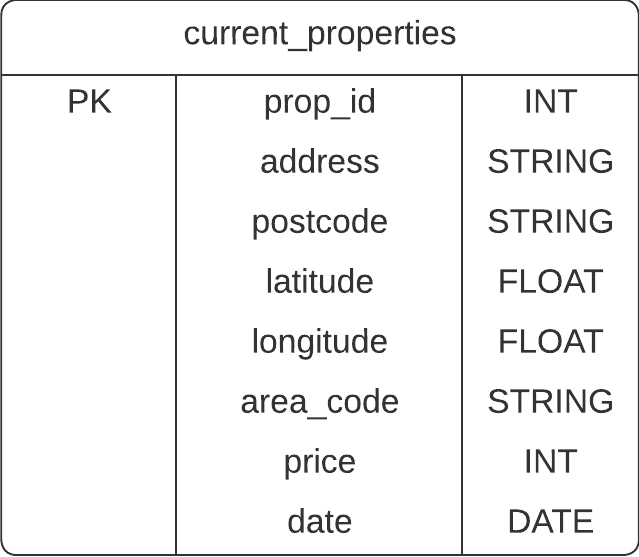
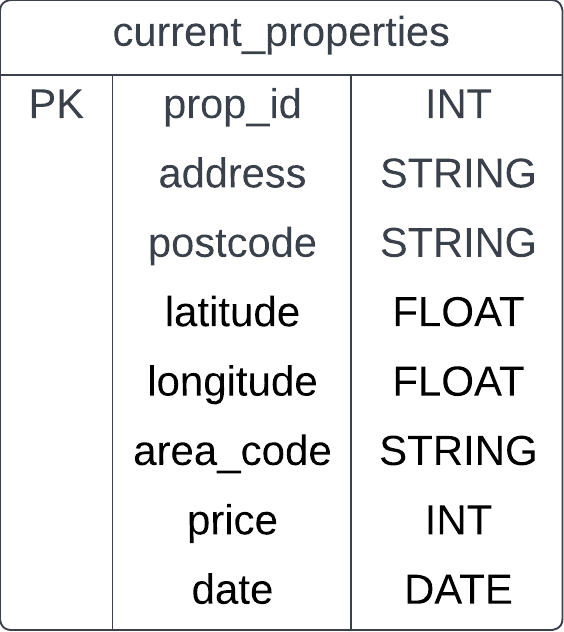
updated readme and diagrams

Changed region(s): [[0.0, 0.0, 1.0, 1.0], [0.3316, 0.7935, 0.5727, 0.8546], [0.7535, 0.7935, 0.9043, 0.8546]]

diff --git a/README.md b/README.md
@@ -4,6 +4,28 @@ Problem/business statement: We want to extract data from Rightmove.com to analys
 
 In this project, I have used Selenium to get data from the Rightmove webpage. I then load it into a relational database (SQL Server on AWS RDS) with a normalised, orthogonal data maodel. Following this, I will use the data in the database to build a dashboard for analysis.
 
+---
+
+## Set up a database
+
+SUPER EASY!!!! AWS RDS - [free tier](https://aws.amazon.com/rds/free/) :
+1. Go to AWS RDS
+2. Click 'create database'
+3. Use the 'easy create' option
+4. Choose your desired engine i.e. Microsoft SQL Server
+5. Select 'free tier' for your DB instance size
+6. Give it a name (DB instance identifier) - this is just used to identify it within AWS
+7. Set your master username and password
+8. Hit 'create database' and wait for it to be created
+9. As always, check your inbound/outbound security group rules attached to the RDS instance and update to ensure you can access it with your (or any) IP address
+10. All done - all you need now to connect and start using your database (i.e. from SQL Server management studio) is your database endpoint (in the 'connectivity & security' tab) and the username and password you set up.
+
+OR set up on your local machine: 
+- <https://learn.microsoft.com/en-us/sql/database-engine/install-windows/install-sql-server?view=sql-server-ver16>
+- <https://www.youtube.com/watch?v=835Zubb1vuU>
+
+---
+
 ## Extract
 
 ### Property Data - Web Scraping Rightmove and using the Google and/or Bing API
@@ -85,17 +107,19 @@ After extracting and transforming, the data is loaded into the SQL Server databa
   - `cursor.commit()` and `cursor.close()` <- very important (commit to actually commit to the database and then close your cursor)
   - Within the queries to load the data, a cte is used to initially reference the data in the `data` list. Then, the data can be inserted into the table using the cte and a subquery to ensure that we only load new data i.e. obey primary key constraint.
 
+---
+
 ## Data Models
 
 ### Database
 
 Properties and prices tables:
 
-<img src="./diagrams/properties_prices.png" width = "250"/>
+<img src="./diagrams/properties_prices.png" width = "140"/>
 
 Misc tables - Finance tables and area codes for SW London (used to filter address' where the API was mistaken):
 
-<img src="./diagrams/misc_tables.png" width = "700"/>
+<img src="./diagrams/misc_tables.png" width = "500"/>
 
 ### Data-mart/analytical table (to be loaded into dataviz tools)
 
@@ -103,16 +127,120 @@ The purpose of the data-mart is to take away some if the burden of performing ag
 
 Aggregated historical price data:
 
-<img src="./diagrams/properties_star.png" width = "450"/>
+<img src="./diagrams/properties_star.png" width = "700"/>
 
 Table of data for the most recent/currently available properties:
 
-<img src="./diagrams/current_properties.png" width = "210"/>
+<img src="./diagrams/current_properties.png" width = "145"/>
 
-The SQL used to create the analytical tables is contained in /sql_snippets/create_dm_tables.sql
+- The SQL used to create the analytical tables is contained in /sql_snippets/create_dm_tables.sql
+- The SQL used to create the stored procedure to be executed to update the analytical tables with new data is in /sql_snippets/create_procedure.sql 
+
+---
 
 ## Dashboard
+
+The dashboard imports data from our analytical tables and from there is fairly straightforward. Two things worth noting:
+
+1. There doesn't seem to be a histogram visual in PowerBI (hmm). To generate the price distribution histogram I created a new column with the DAX below to manually bin the prices into groups of £200 and then plotted it on a bar chart against the count:
+
+```DAX
+binned_price = ROUND(current_properties[price]/200, 0) * 200
+```
+
+2. The current_properties table doesn't have a relationship to the area_dim table as not all properties in the table have an area code and we would violate foreign key constraints. However, we can set that relationship (on area_code) in PowerBI to link the current prices (in current_properties table) to districts (in area_dim table), allowing us to show the average current price by district. Then, in our table visual we add a filter to "area code" to remove blank area codes.
 
 <img src="./dashboard/page1.png" width = "900"/>
 
 <img src="./dashboard/page2.png" width = "900"/>
+
+---
+
+## Operating the Pipeline Manually
+
+To run the pipeline, run the main.py python script as a main script. This will execute the function `ETL_to_database()` - extracting all data, transforming and loading into the database.
+
+Whenever you want to update the analysis, you can execute the stored procedure in SQL Server Management Studio or by executing the function `ETL_to_mart()`, located in main.py (which just executes the stored procedure from python via pyodbc)
+
+---
+
+## Operating the Pipeline Automatically with Apache Airflow
+
+We also include functionality to allow the pipeline to be executed automatically, on a schedule, using apache airflow. See [this tutoral](https://www.youtube.com/watch?v=K9AnJ9_ZAXE).
+
+Airflow is very often run in docker containers. Apache provide base images, making it easy to get started with a preconfigured environment. This is particularly useful as airflow doesn't seem to work with windows environments, though you can use WSL. See [this article](https://www.freecodecamp.org/news/install-apache-airflow-on-windows-without-docker/).
+
+It helps to have some understanding of docker and docker-compose. Here's a cool [crash course](https://www.youtube.com/watch?v=TSySwrQcevM).
+
+Although, having said that, you can get by using the [documentation](https://airflow.apache.org/docs/apache-airflow/stable/howto/docker-compose/index.html) and the tutorial linked above. For the specifics of this project, we will need to edit our dockerfile beyond the scope of these resources to configure the linux environment with the necessary installations:
+- chrome driver & google chrome for selenium
+- ODBC driver for pyodbc
+
+Let's go through the steps:
+
+### Initial Set Up
+
+1. Check docker and docker-compose are installed: `docker --version` & `docker-compose --version`
+2. Fetch the docker-compose.yaml file: `curl -LfO 'https://airflow.apache.org/docs/apache-airflow/2.6.3/docker-compose.yaml'`
+3. The yaml file will be set up to use [CeleryExecutor](https://airflow.apache.org/docs/apache-airflow/stable/core-concepts/executor/celery.html). Can change to use [LocalExecutor](https://airflow.apache.org/docs/apache-airflow/stable/core-concepts/executor/local.html). Then can remove `AIRFLOW__CELERY__RESULT_BACKEND` and `AIRFLOW__CELERY__BROKER_URL` from the environment config. Also remove redis dependancy and definition, and celery worker and flower when using local executor. (See [this tutorial](https://www.youtube.com/watch?v=J6azvFhndLg&list=PLwFJcsJ61oujAqYpMp1kdUBcPG0sE0QMT&index=3))
+4. Can remove example dags by setting `AIRFLOW__CORE__LOAD_EXAMPLES: 'false'` in the docker-compose.yaml
+5. Create necessary directories: `mkdir -p ./dags ./logs ./plugins ./config`
+
+### Extend Airflow Docker Image with Necessary Dependencies
+
+1. Create a dockerfile to extend the base airflow image.
+2. The docker-compose.yaml file currently uses the `apache/airflow:2.6.3` base image (i.e. `image: ${AIRFLOW_IMAGE_NAME:-apache/airflow:2.6.3}` in the yaml file). We want to replace this with our own image (lets say `extending_airflow:latest`), which we have yet to build.
+3. In the dockerfile: 
+   - Use the airflow image: `FROM apache/airflow:2.6.3`
+   - Make a directory for custom packages: `CMD mkdir -p /custom_packages`
+   - `COPY` custom python packages/modules in. This includes `main.py` as we will be using it as a module here, since it'll be our dag python files that will be executed.
+   - `COPY` requirements.txt and `RUN pip install -r /requirements.txt` to install python dependencies
+   - `USER root` to perform operations
+   - `WORKDIR /tmp` to download install files to tmp directory, rather than cluttering the working directory.
+   - Perform clean, update and install necessary to perform installations (wget to download and unzip). We also install xvfb. xvfb is necessary to run selenium on chrome driver as we need a 'virtual screen' ([see this gitub](https://gist.github.com/varyonic/dea40abcf3dd891d204ef235c6e8dd79) and this [forum post](https://forum.katalon.com/t/unknown-error-devtoolsactiveport-file-doesnt-exist-the-process-started-from-chrome-location-usr-bin-google-chrome-is-no-longer-running-so-chromedriver-is-assuming-that-chrome-has-crashed/86665/4)). Finally, we install vim so that we can view files in the terminal when/if we want to do so in the docker container.
+   - [Install google chrome](https://medium.com/@priyanka.kolachina/install-google-chrome-and-chrome-driver-on-ubuntu-fdea61c0f132): `RUN wget https://dl.google.com/linux/direct/google-chrome-stable_current_amd64.deb` (download install files) `RUN apt-get install ./google-chrome-stable_current_amd64.deb -y` (perform install)
+   - [Install chrome driver](https://medium.com/@priyanka.kolachina/install-google-chrome-and-chrome-driver-on-ubuntu-fdea61c0f132), see also [this link](https://docs.testproject.io/articles/Help%20Articles/Installing%20Google-chrome%20and%20Chromedriver%20on%20an%20Amazon%20Linux%20machine): `RUN wget https://chromedriver.storage.googleapis.com/114.0.5735.90/chromedriver_linux64.zip` (download install files) `RUN unzip chromedriver_linux64.zip` (unzip download files) `RUN mv chromedriver /usr/bin/chromedriver` (move the chromedriver app).
+   - [Install the ODBC driver](https://learn.microsoft.com/en-us/sql/connect/odbc/linux-mac/installing-the-microsoft-odbc-driver-for-sql-server?view=sql-server-ver16&tabs=debian18-install%2Cdebian17-install%2Cdebian8-install%2Credhat7-13-install%2Crhel7-offline#17).
+   - Change the working directory back `WORKDIR /opt/airflow`
+4. Build the docker image: `docker build -t extending_airflow:latest -f ./airflow_files/dockerfile .`. Note we run this from the directory above the dockerfile and sepcify the path to the dockerfile as some of the files (main.py, credentials.py etc) are in the parent directory (directory above the dockerfile)
+
+### Tell Python Where To Look For Custom Modules & Packages
+
+By default, the interpreter looks for a module within the current directory. It will also look in other directories where packages may exist, i.e. directories for pip installed packages (\python\lib directories). If we want to add all of our custom modules and packages to a new directory (as we do in our dokerfile (/custom_packages)), then we need to tell the python interpreter to search that location for our files. There are a couple of ways we can do this:
+
+- Add the directory to the PYTHONPATH environment variable (we can do this in the docker-compose.yaml file by setting `PYTHONPATH: /custom_packages` within the `environment` key).
+- Append the file path with the python script (i.e. within pipeline.py). Add `sys.path.append('/custom_packages')` before the import statements.
+
+### Create the DAG
+
+1. In the dags directory, add the python file (i.e. `pipeline.py`).
+2. In the python file, we create two functions, which will be the two tasks we want to complete in our DAG: `first_ETL()` and `second_ETL()`. The first executes our main ETL pipeline function and the second executes our stored procedure to extract, transform and load into analytical tables in SQL Server.
+3. We set up the `deafult_args` for the DAG
+4. Then we define our DAG.
+   - We use [cron notation](https://en.wikipedia.org/wiki/Cron) to define our schedule of every Monday and Friday ('0 13 * * Mon,Fri'). https://crontab.guru/ is handy for making cron!
+   - We define our tasks and set the order of execution/dependencies `task1 >> task2` (We need to make sure we are only updated the analytical tables once the new data has been loaded)
+
+### Run Airflow
+
+1. Initialize the database for airflow (airflow needs a database to store metadata about configuration, users/roles and task runs - this has nothing to do with our SQL Server database - in fact you can see from the docker-compose.yaml that we are using a postgresql dababase image for our airflow metadata database). To do this, from the airflow_files directory, run `docker-compose up airflow-init`. This will download all necessary docker images, set up the volume and airflow_files containers and set up a user with username and password 'airflow'.
+2. Start all the services (run the containers): `docker compose up -d`. The `-d` flag will run the containers in 'detached mode' - allowing us to run them in the background. Should see that a postgres, scheduler, triggerer and webserver container are all up and running - can check by running `docker ps`.
+3. Access the portal on localhost:8080, sign in as 'airflow', unpause the DAG and away you go.
+
+Quick summary:
+
+```pwsh
+docker-compose up airflow-init
+docker compose up -d
+```
+
+### Shut down airflow
+
+1. Use command `docker-compose down -v` to stop the containers and remove them. The flag `-v ` all removes the volumes.
+
+NOTES:
+
+- Installing chrome from google will only let you install the newest version. You need to make sure that the version of chrome driver that you install is compatable. All versions can be found [here](https://chromedriver.chromium.org/downloads). 
+- Can run the docker image in terminal using `docker run -it --entrypoint /bin/bash extending_airflow:latest`
+- Need to make sure ODBC version is compatible with the ubuntu/linux version. When running docker image in terminal: `lsb_release -a`
+- To find the name of the ODBC driver (to be passed into the pyodb.connect() method): run docker image - `sudo vim /etc/odbcinst.ini` - this is the ODBC driver configuration file. Find the name/path of the driver. It is "/opt/microsoft/msodbcsql17/lib64/libmsodbcsql-17.10.so.4.1" for MS ODBC 17, or can use the name tagged at the top of the configuration file (ODBC Driver 17 for SQL Server).
+- ODBC 18 has [breaking changes](https://techcommunity.microsoft.com/t5/sql-server-blog/odbc-driver-18-0-for-sql-server-released/ba-p/3169228). It now sets encrypt to yes by default. It used to be set to false. Our local pc uses an older version where encrypt is false and our code is set accordingly. To match our development environment, we install ODBC 17. If using ODBC 18, it seems that in the pyodbc.connect() method sting you would want to set 'Trusted_Connection=yes;' and install relevant CA certificates.
